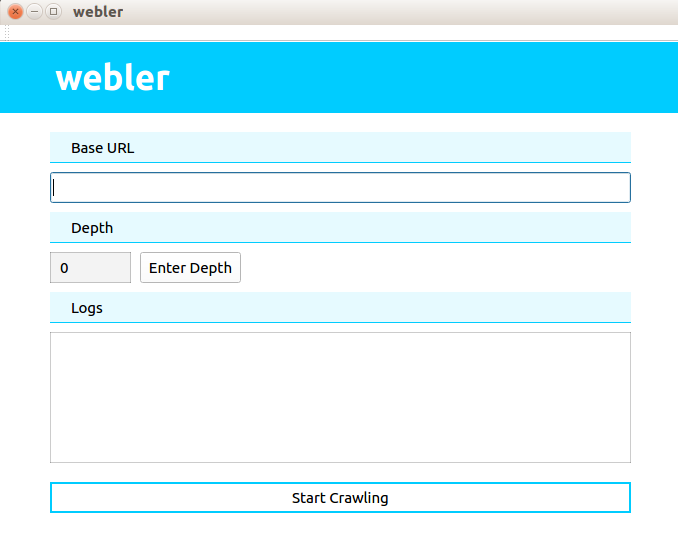
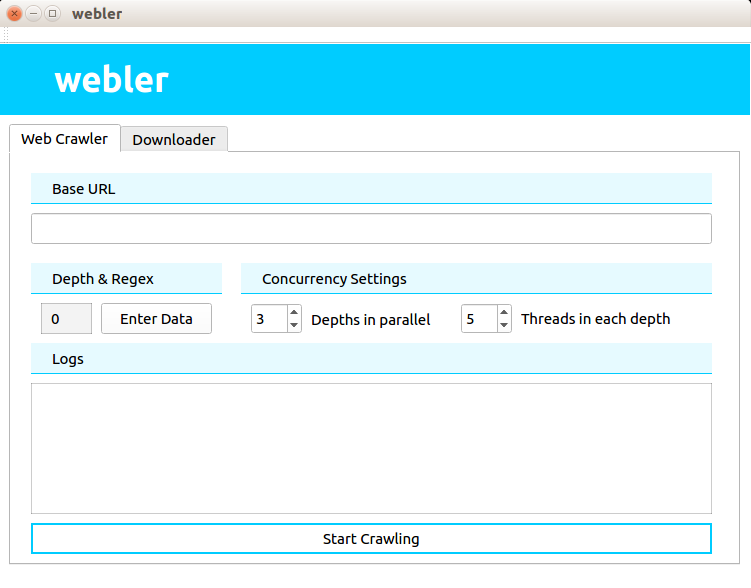
Updated docs for desktop app

diff --git a/docs/downloader.md b/docs/downloader.md
@@ -7,13 +7,12 @@ Compile using ```--std=c++14 -lwebler -lpthread -lcurl```
 
 Find out our tests [here](https://github.com/thecodesome/libwebler/blob/master/docs/tests.md)
 
-### Methods included
+### Publc methods included
 * `class Downloader`
   * `auto download(string url, string outFile="") -> bool`
   * `auto SetProgressCallback(void (*callback)(double)) -> void;`
 
-### Using of `Downloader`
-> Disclaimer: All the links used below are just for demo and does not actually work. Check our tests for a working data.
+### Using `Downloader`
 
 #### Create Downloader object
 
@@ -23,52 +22,21 @@ webler::Downloader my_downloader;
 
 #### Give the url and the name to save the file (optional)
 * The url should be valid.
-* THe default directory will be /home/usr/Downloads.
+* THe default directory will be $HOME/Downloads.
 
 ```
-string url = "https://upload.wikimedia.org/wikipedia/commons/thumb/f/ff/Pizigani_1367_Chart_10MB.jpg/1200px-Pizigani_1367_Chart_10MB.jpg";
+string url = "https://upload.wikimedia.org/wikipedia/commons/f/ff/Pizigani_1367_Chart_10MB.jpg";
 
 string filename = "image";
 ```
 
-#### Open temporary files to write into
-Give the temporary files random names to avoid conflict while downloading multiple files.
-```
-webler::Downloader::Downloader (){                                              
-  downloaddir += "/Downloads";
-  tempName = gen_random_string(6);
-  for (size_t i = 0; i < MAX_NO_OF_THREADS; i++) {
-    tempFileNames[i] = downloaddir + "/" + tempName + to_string(i+1);           
-  }
-}
-```
-
-#### Check the file extension and file size.
-We are using libcurl library to determine these values. We will send a url request to the server and the required parameters to get the required values.
-```
-auto webler::Downloader::FileSize(const char *fileUrl) -> int {
-  CURL *tempCurl = curl_easy_init();                                            
-  CURLcode tempCode;
-  if(CURLE_OK == tempCode) {
-    tempCode = curl_easy_getinfo(tempCurl, CURLINFO_CONTENT_LENGTH_DOWNLOAD,&fullFileSize);
-    if(CURLE_OK == tempCode && fullFileSize > 0.0){                           
-      tempCode = curl_easy_getinfo(tempCurl, CURLINFO_CONTENT_TYPE, &contentType);
-      extension = string(contentType);
-      curl_easy_cleanup(tempCurl);
-      return fullFileSize;
-    }
-  }
-  return -1;
-}
-```
-
-#### Setting callback for the data
-To ensure that downlaod is complete, the callback will check for the download progress.
+#### Setting callback for checking progress
+The callback function will be called with the download percentage at regular intervals of time.
 ```
 // Outside main
 
-auto webler::Downloader::SetProgressCallback(void (*callback)(double)) -> void {
-  progressCallback = callback;
+void progressCallback(double percentage) {
+    printf("Download Progress : %.3f\r",percentage);
 }
 
 // inside main
@@ -79,52 +47,11 @@ my_downloader.SetProgressCallback(progressCallback);
 
 #### Start Downloading
 ```
-auto webler::Downloader::DownloadFile (const char *url, const char *outFile) -> int {
-  std::ofstream output(outFile, ios::binary);                                   
-  fileSizeResult = FileSize(url);                                               
-  FileRanges();                                                                 
-  if (fileSizeResult > 0) {
-      thread progressThread = thread(&Downloader::getDownloadProgress,this);    
-      for (int i = 0; i < MAX_NO_OF_THREADS; i++) {
-        fileThreadsToDownload[i] = thread(&Downloader::WriteTemporaryPartitions,this,i);
-      }                                                                         
-      for (size_t i = 0; i < MAX_NO_OF_THREADS; i++) {
-
-        fileThreadsToDownload[i].join();                                                
-        tempOutputFiles[i].close();                                             
-
-      }
-      progressThread.join();
-      cout<<endl;
-      MergeDownloadedPartitions();                                              
-      return 0;
-  }
-  else{
-      return -1;
-  }
-}
-```
-
-#### Download Progress
-This will automatically calculates download at regular intervals.
-```
-auto webler::Downloader::getDownloadProgress()->void{
-    if(progressCallback) {
-      ifstream *files = new ifstream[MAX_NO_OF_THREADS];
-      int indFileSize = 0;
-      double percentComplete = 0;
-      while(indFileSize!=fileSizeResult){
-        indFileSize = 0;
-        for (size_t i = 0; i < MAX_NO_OF_THREADS; i++) {                         
-            ifstream file(tempFileNames[i].c_str(),ifstream::binary|ifstream::ate);
-            indFileSize += file.tellg();
-        }
-        percentComplete = ((double)indFileSize/(double)fileSizeResult)*100;
-        progressCallback(percentComplete);
-        usleep(10000);
-     }
-  }
-}
+my_downloader.download(url,filename);
+/*
+filename is optional
+my_downloader.download(url) also works but gives a random name.
+*/
 ```
 
 Check how to use Downloader in desktop app [here](https://github.com/thecodesome/libwebler/blob/master/docs/desktop_app.md)

diff --git a/docs/desktop_app.md b/docs/desktop_app.md
@@ -3,22 +3,34 @@ By using desktop app you will get all the data from the final depth in a file.
 
 Type `webler` in terminal to open the desktop app
 
+## Web Crawler
+
 ![webler desktop app](images/img1.png)
 > Disclaimer: All the link and regex used below is just for demo and does not actually work. Check our tests for a working data.
 
 #### Enter the stating URL
 ![webler desktop app](images/img2.png)
 
+---
+
 #### Enter the depth
 Click on `Enter Depth` button to enter the depth
 ![webler desktop app](images/img3.png)
+
+---
 
 #### Enter the regex
 After entering the depth, you will be prompted to enter the regex (depth number of regex).
 ![webler desktop app](images/img4.png)
 
+---
+
 #### Final step
 ![webler desktop app](images/img5.png)
+
+Set number of depths running in parallel and number of threads to run in each depth in the `Concurrency Settings`
+
+---
 
 After setting all the data, click on `Start Crawling` and wait till it shows in the logs that crawling is finished.
 
@@ -31,3 +43,20 @@ All the GET requests which failed will be stored in `$HOME/webler/$ID/failed_url
 > Warning: Clicking on `Start Crawling` multiple times will start multiple instances of crawling and overload the server and the computer on which it is being run.
 
 Check how to use `WebCrawler` in C++ code [here](https://github.com/thecodesome/libwebler/blob/master/docs/crawler.md)
+
+## Downloader
+![webler desktop app](images/img6.png)
+
+#### Enter Download URL
+Enter the `Download URL` to get the file from. File Name is optional (without extensions).
+![webler desktop app](images/img7.png)
+
+#### Start Dowloading
+Enter the `Download URL` to get the file from. File Name is optional (without extensions).
+![webler desktop app](images/img8.png)
+
+#### Dowloading Finished
+After downloading the file will be in `$HOME/Downloads` folder
+![webler desktop app](images/img9.png)
+
+Check how to use `Downloader` in C++ code [here](https://github.com/thecodesome/libwebler/blob/master/docs/downloader.md)

diff --git a/docs/crawler.md b/docs/crawler.md
@@ -7,7 +7,7 @@ Compile using ```--std=c++14 -lwebler -lpthread -lcurl```
 
 Find out our tests [here](https://github.com/thecodesome/libwebler/blob/master/docs/tests.md)
 
-### Methods included
+### Public methods included
 * `class WebCrawler`
   * `int set_basedata(string _root_url, int _depth, vector<string> _regexes_str)`
   * `int set_concurrency_options(int _max_depth, int _depth_threads)`
@@ -16,7 +16,7 @@ Find out our tests [here](https://github.com/thecodesome/libwebler/blob/master/d
   * `int start()`
 * `vector<string> get_href(string html)`
 
-### Using of `WebCrawler`
+### Using `WebCrawler`
 > Disclaimer: All the link and regex used below is just for demo and does not actually work. Check our tests for a working data.
 
 #### Create WebCrawler object
